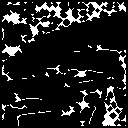
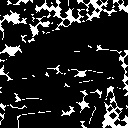
fix 049,050

diff --git a/q41_50/lib4150.py b/q41_50/lib4150.py
@@ -161,7 +161,7 @@ def Morphology_dilation(img, time): # for binarizated-image
     mul = np.array([[0,1,0],[1,0,1],[0,1,0]])
 
     for _ in range(time):
-        padimg = np.pad(img,[(1,1),(1,1)],'constant')
+        padimg = np.pad(img,[(1,1),(1,1)],'edge')
         img2 = img.copy()
         for y in range(height):
             for x in range(width):
@@ -177,7 +177,7 @@ def Morphology_erosion(img, time): # for binarizated-image
     mul = np.array([[0,1,0],[1,0,1],[0,1,0]])
 
     for _ in range(time):
-        padimg = np.pad(img,[(1,1),(1,1)],'constant')
+        padimg = np.pad(img,[(1,1),(1,1)],'edge')
         img2 = img.copy()
         for y in range(height):
             for x in range(width):
